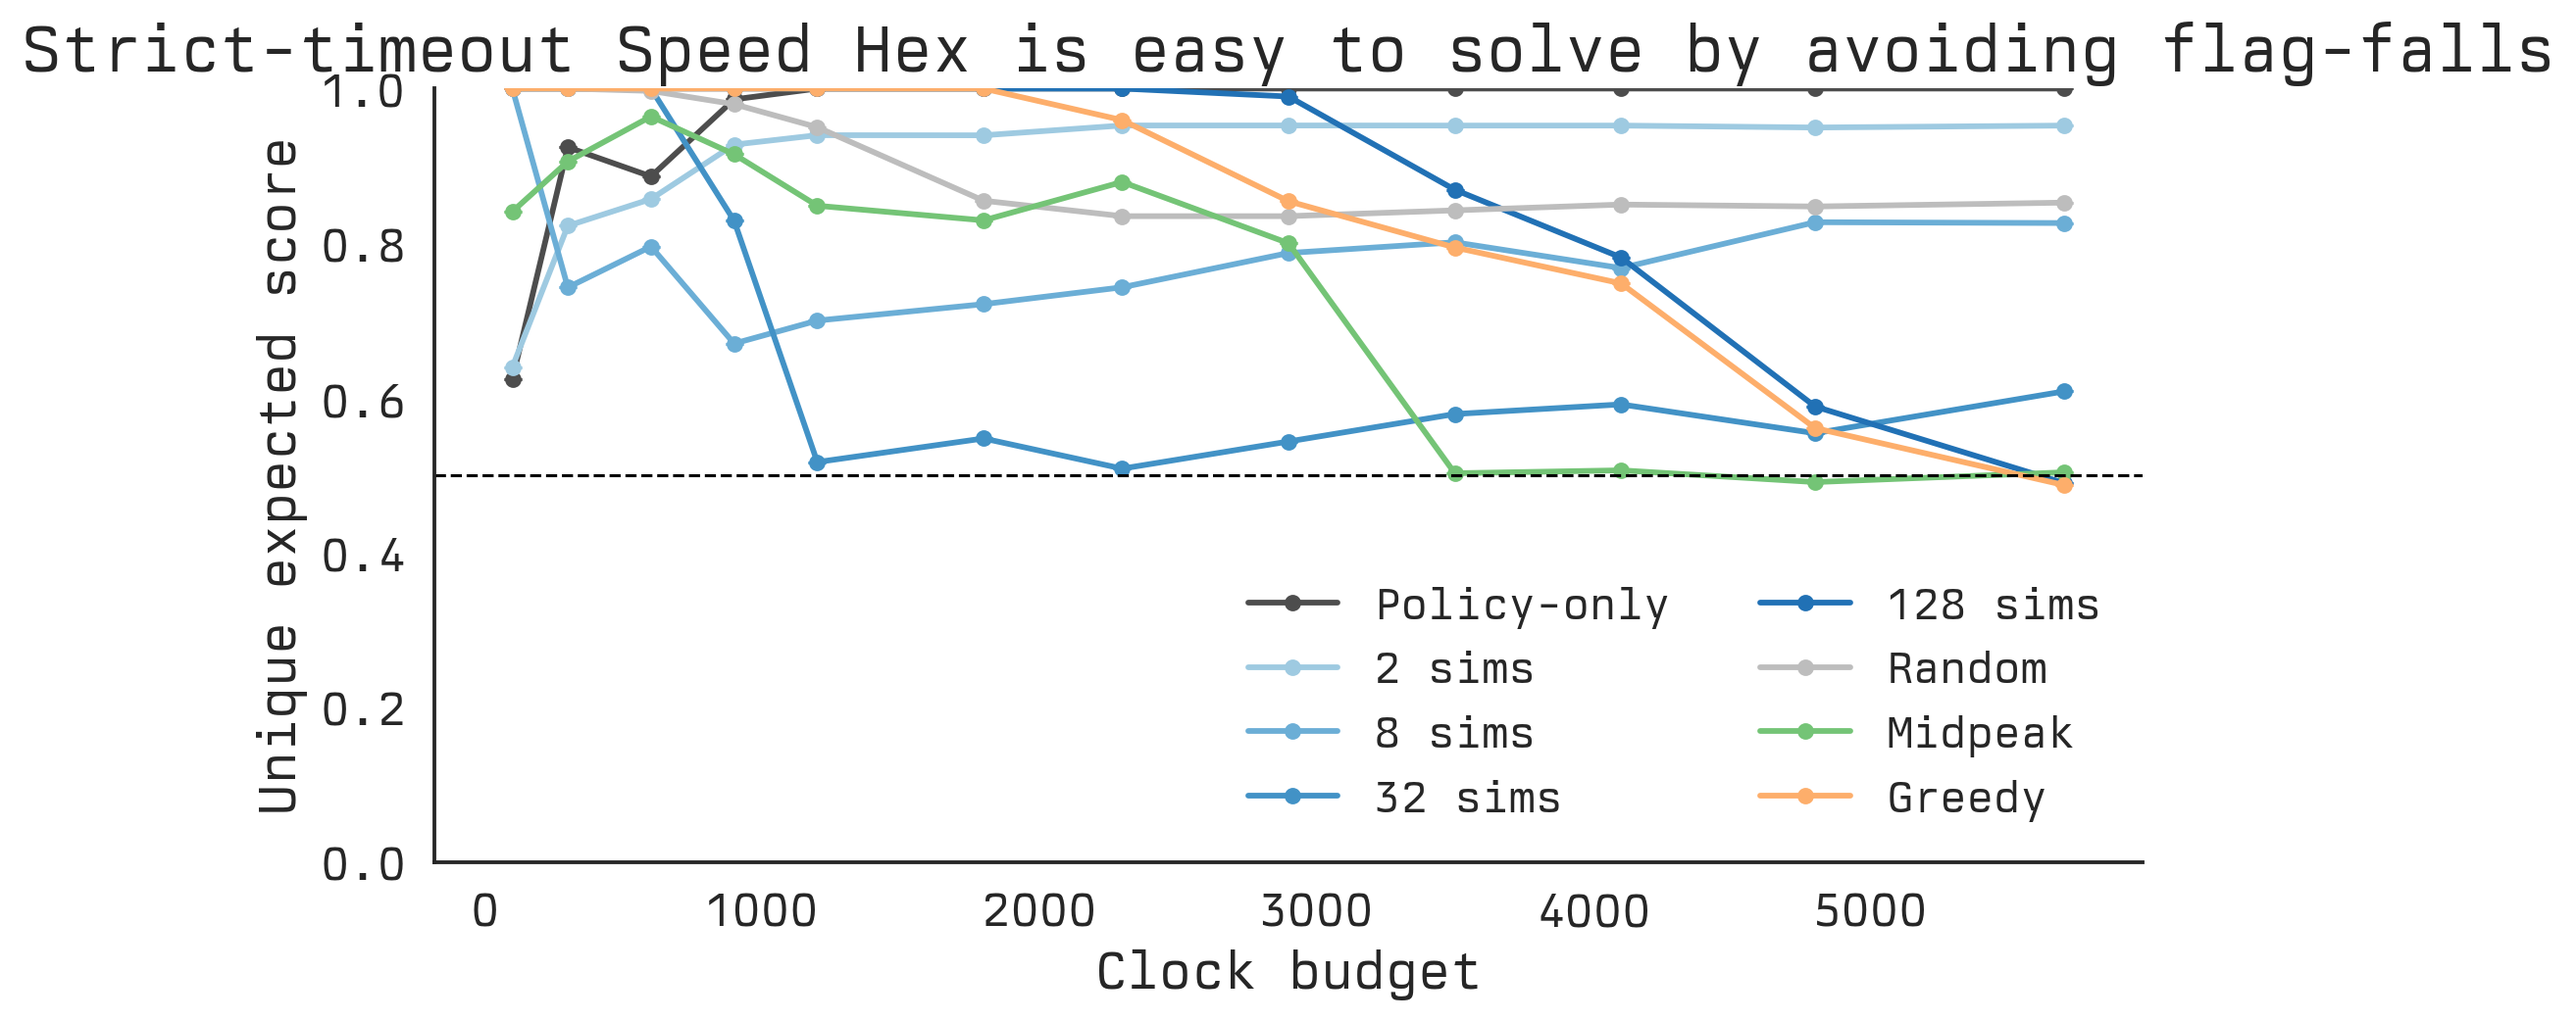
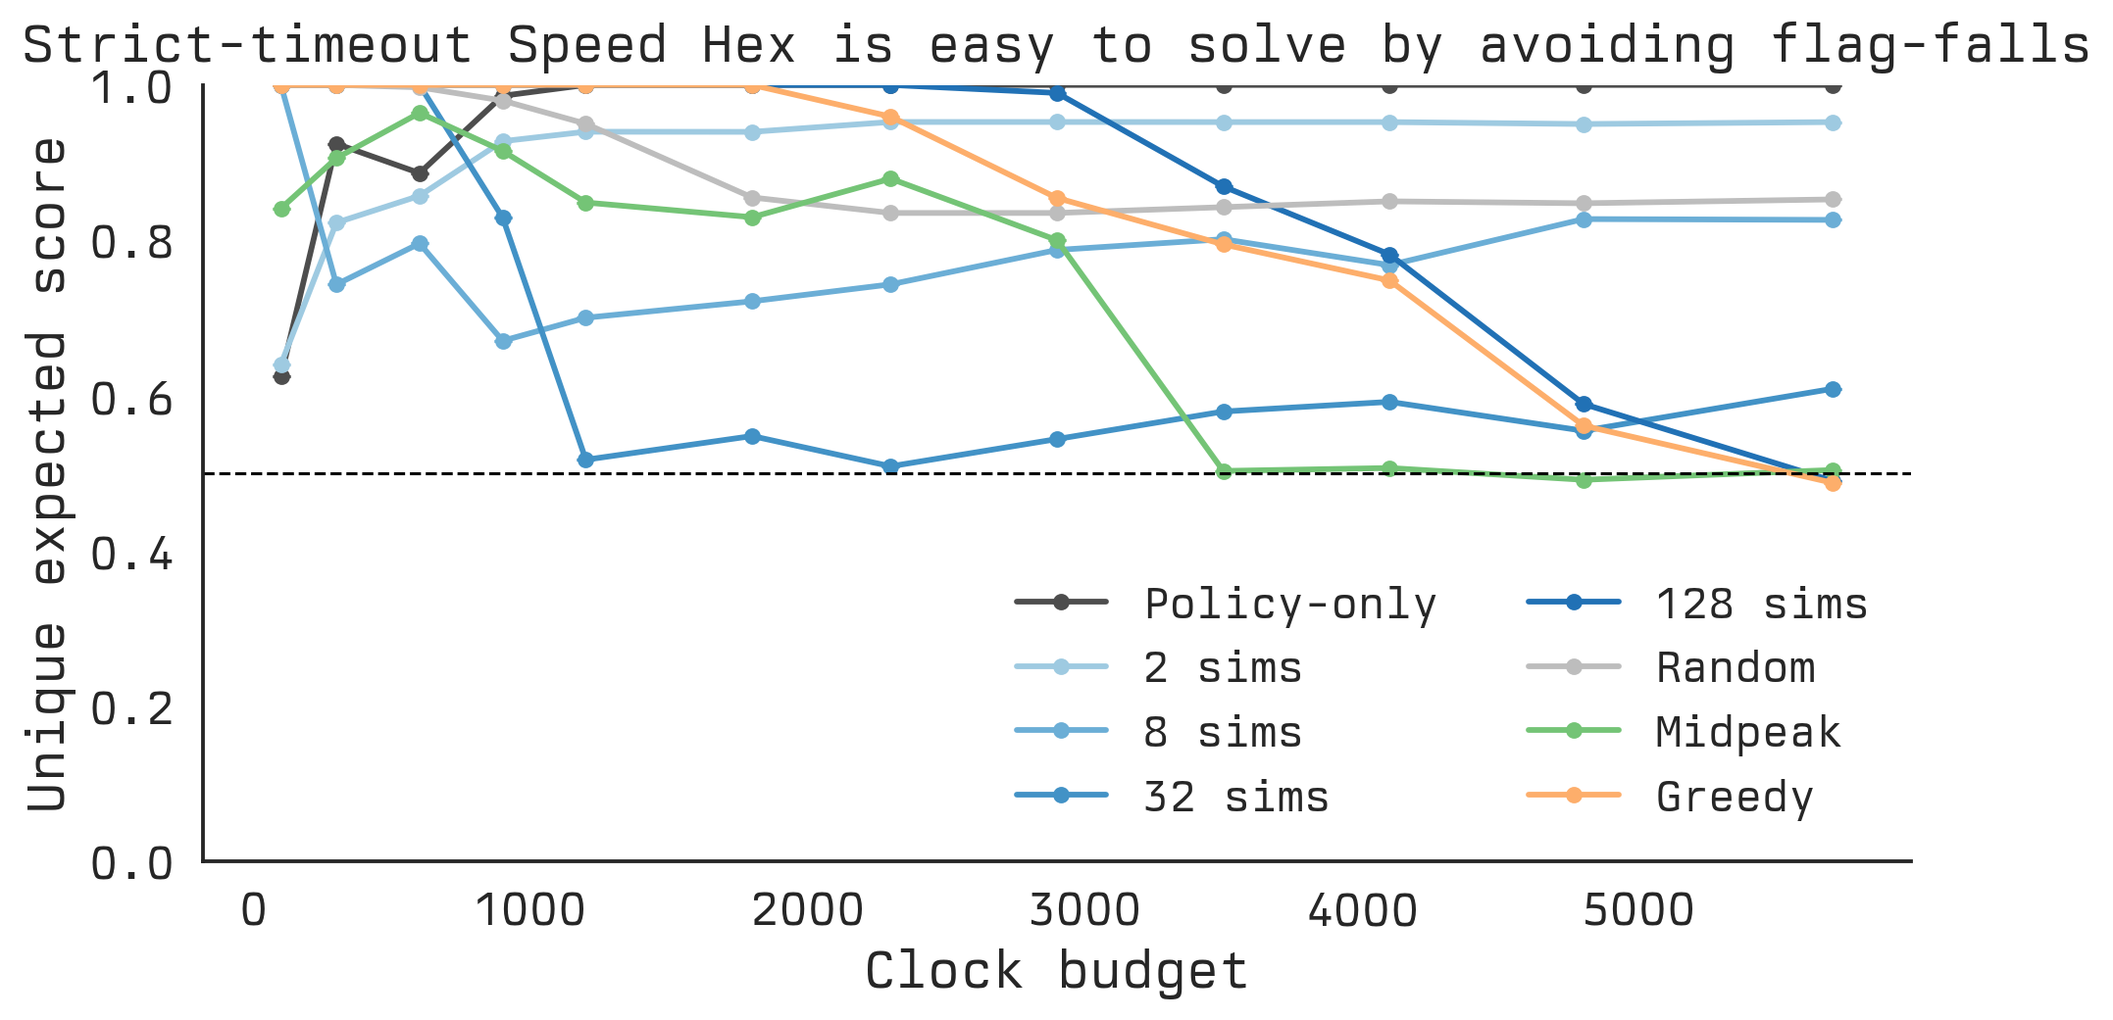
fixed plot

diff --git a/plot_timeout_hex_appendix.py b/plot_timeout_hex_appendix.py
@@ -199,7 +199,11 @@ def plot_timeout_hex_appendix(project: str, entity: str, output_stem: str):
     ax.axhline(0.5, color=C_BLACK, linestyle="--", linewidth=1.0)
     ax.set_xlabel("Clock budget", fontsize=FS_LABEL)
     ax.set_ylabel("Unique expected score", fontsize=FS_LABEL)
-    ax.set_title("Strict-timeout Speed Hex is easy to solve by avoiding flag-falls", fontsize=FS_TITLE)
+    ax.set_title(
+        "Strict-timeout Speed Hex is easy to solve by avoiding flag-falls",
+        fontsize=FS_TITLE - 4,
+        pad=8,
+    )
     ax.tick_params(axis="both", labelsize=FS_TICK)
     ax.set_ylim(0.0, 1.0)
     ax.legend(frameon=False, fontsize=FS_LEGEND - 1, ncol=2, loc="lower right")
